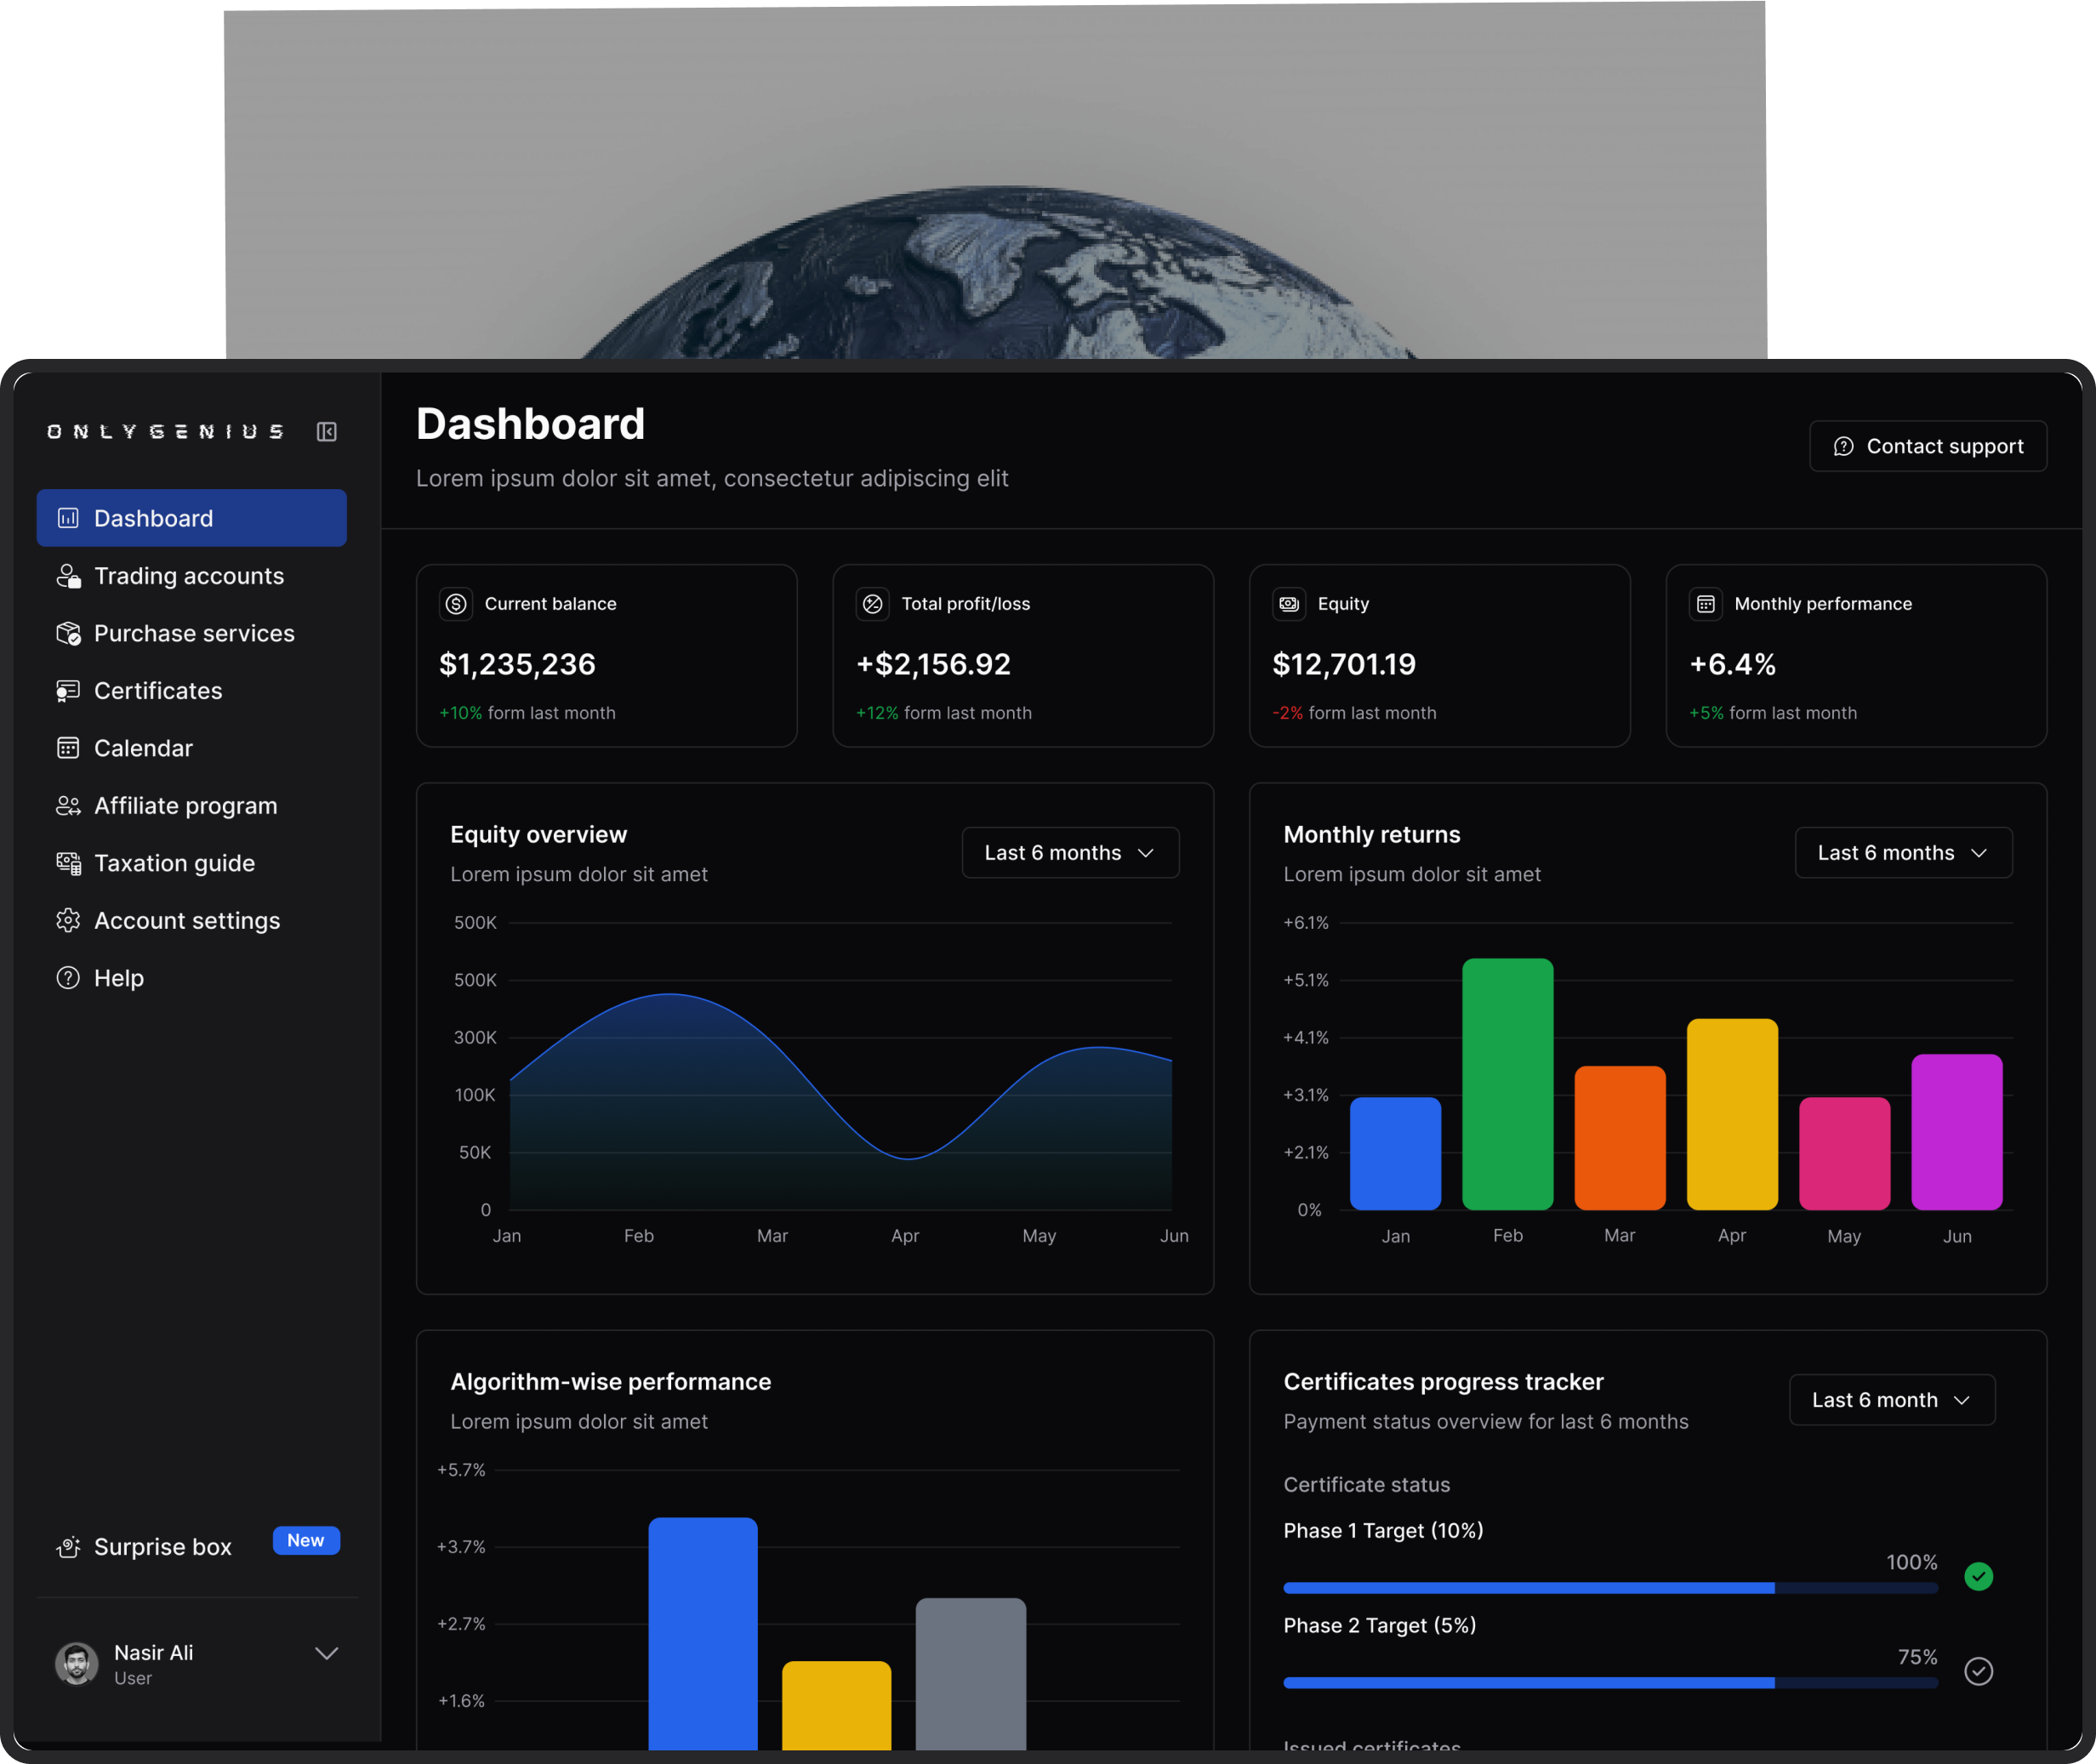
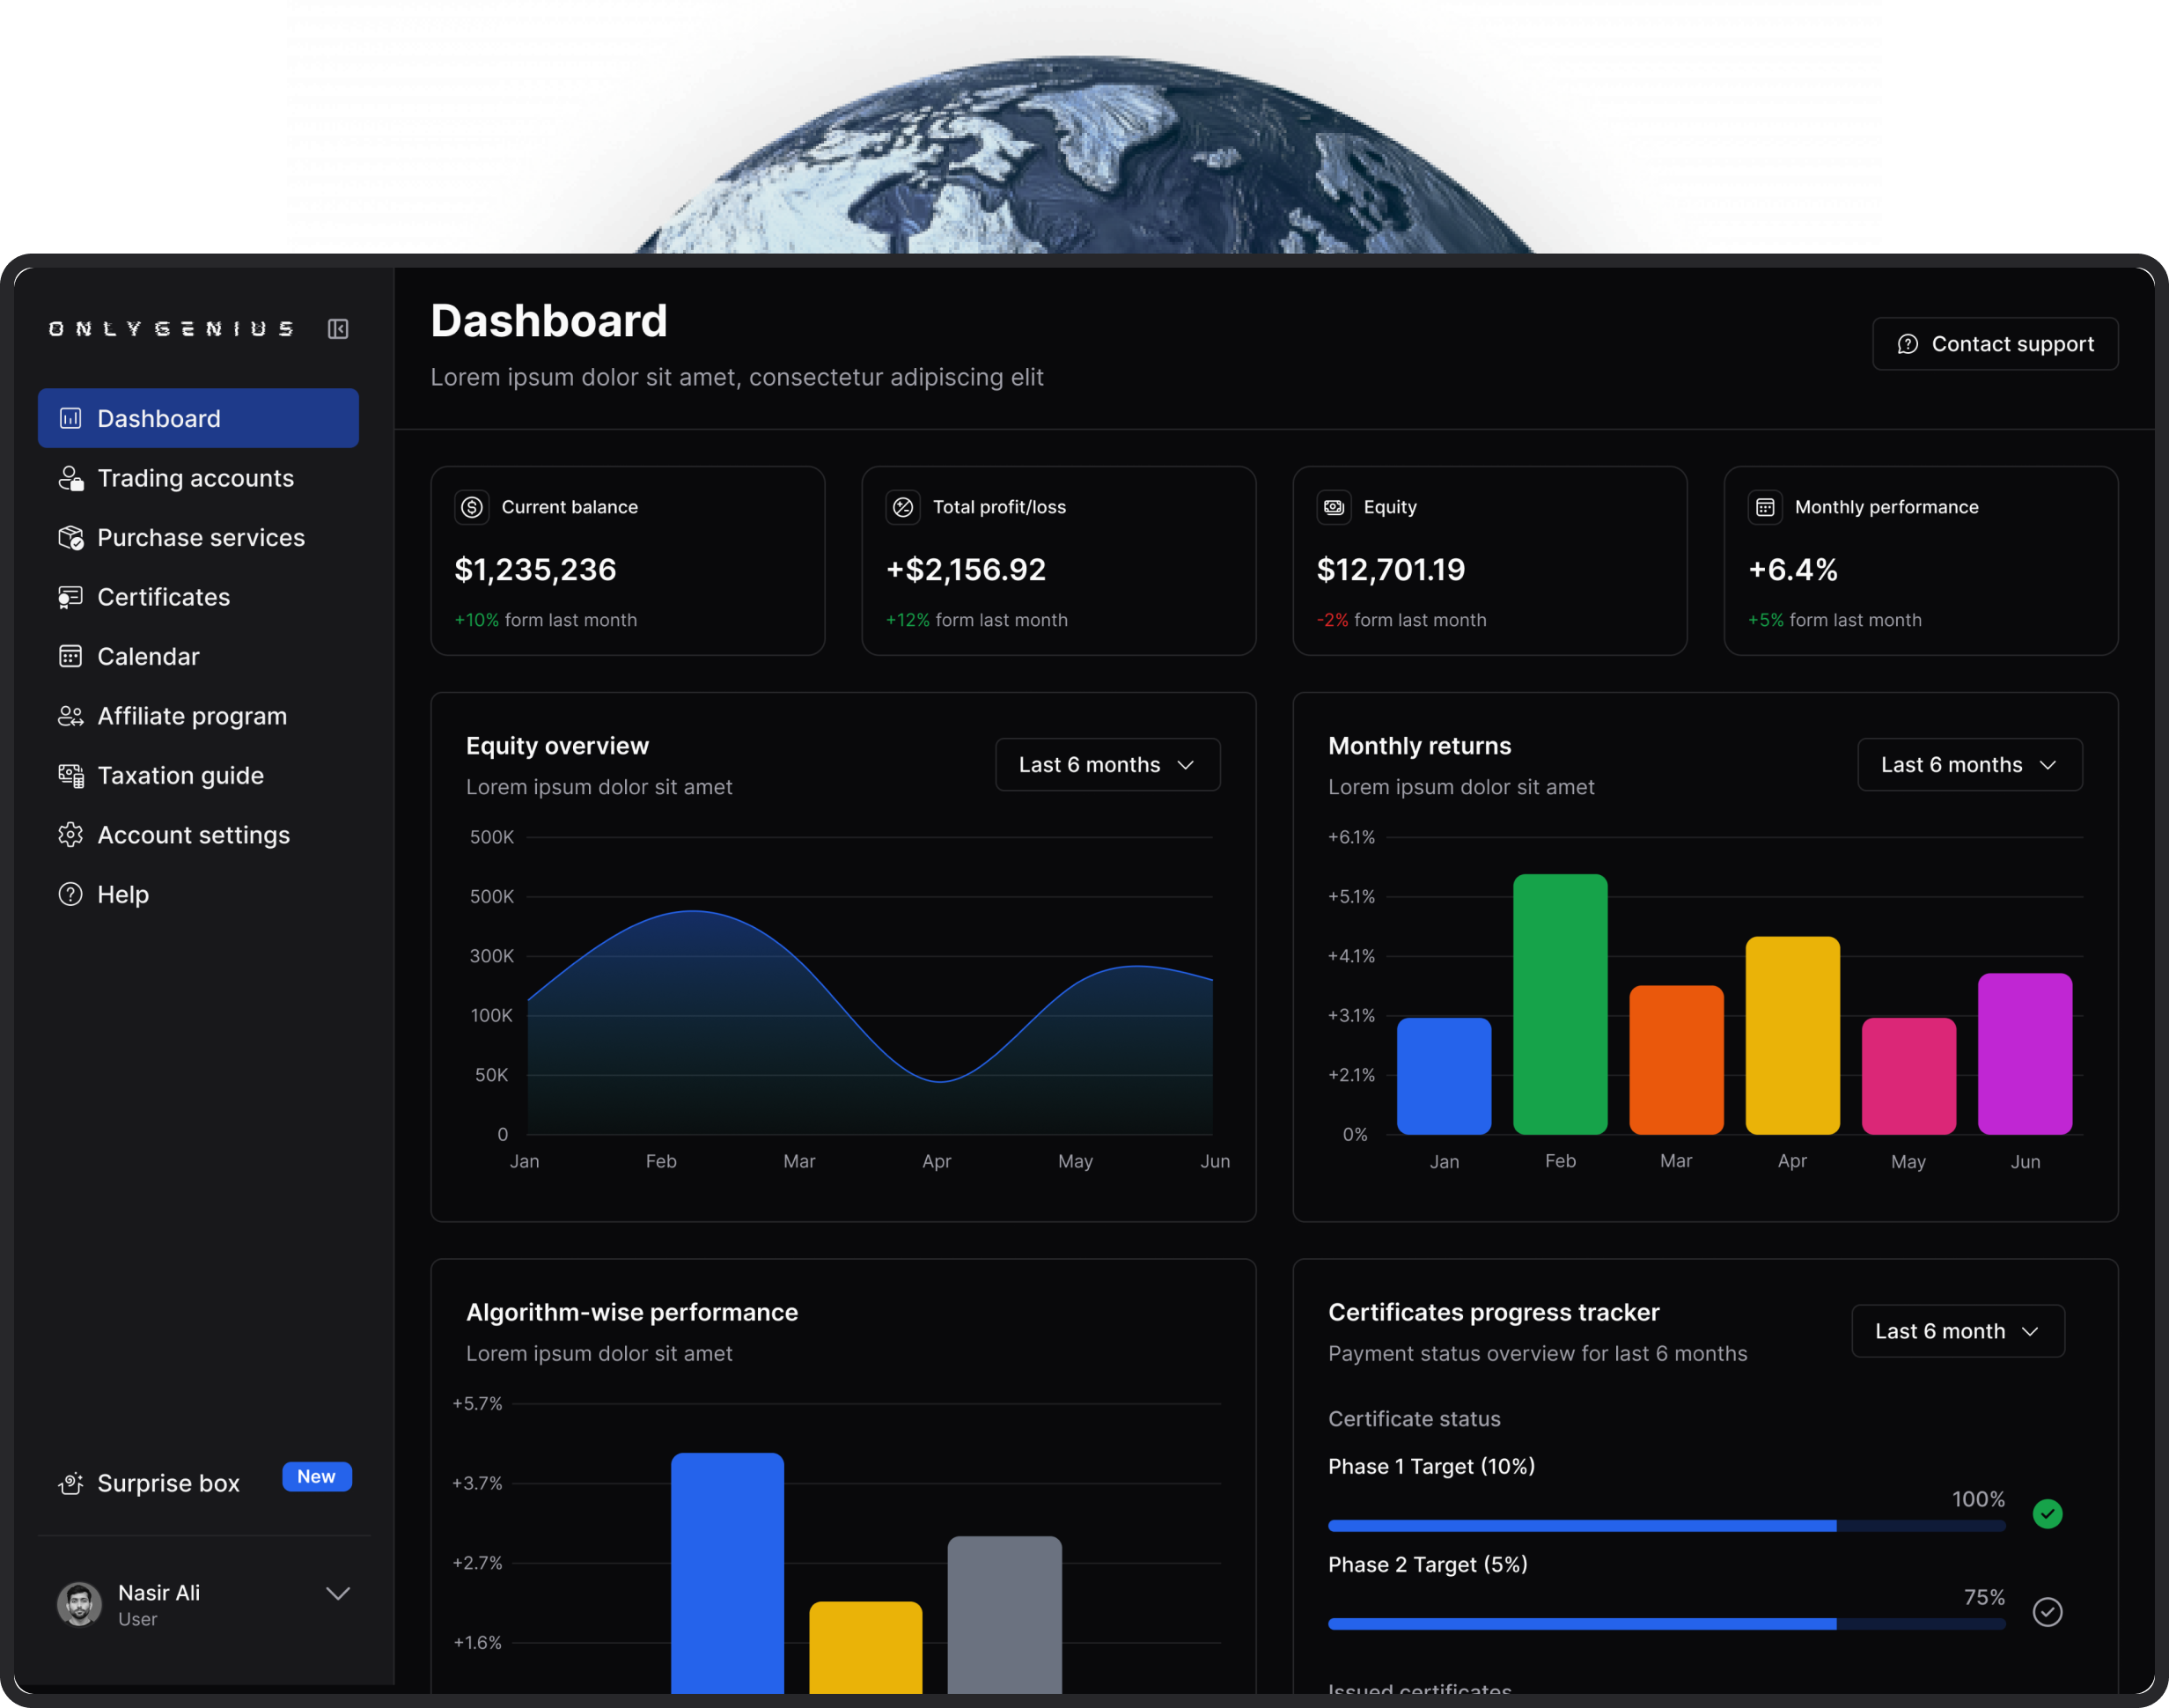
formulario + boton empezar

diff --git a/src/components/Services/InfoModal.jsx b/src/components/Services/InfoModal.jsx
@@ -1,0 +1,70 @@
+import React from "react";
+
+export default function PerformanceAccessModal({ open, onClose }) {
+  if (!open) return null;
+
+  return (
+    <div className="fixed inset-0 z-50 flex items-center justify-center bg-black/60 backdrop-blur-sm">
+      <div className="w-full max-w-md rounded-lg bg-[#0F0F11] border border-[#27272A] text-white p-6 shadow-xl">
+        {/* Header */}
+        <div className="flex justify-between items-center mb-4">
+          <h2 className="text-base font-semibold">Request access to performance data</h2>
+          <button
+            onClick={onClose}
+            className="text-[#A1A1AA] hover:text-white text-xl"
+          >
+            &times;
+          </button>
+        </div>
+
+        {/* Description */}
+        <p className="text-sm text-[#A1A1AA] mb-6">This is a dialog description.</p>
+
+        {/* Form */}
+        <form className="space-y-4">
+          <input
+            type="text"
+            placeholder="Enter your first name"
+            className="w-full px-4 py-2 rounded-md bg-[#18181B] text-white border border-[#27272A] text-sm placeholder-[#52525B]"
+          />
+          <input
+            type="text"
+            placeholder="Enter your last name"
+            className="w-full px-4 py-2 rounded-md bg-[#18181B] text-white border border-[#27272A] text-sm placeholder-[#52525B]"
+          />
+          <input
+            type="email"
+            placeholder="Enter your email"
+            className="w-full px-4 py-2 rounded-md bg-[#18181B] text-white border border-[#27272A] text-sm placeholder-[#52525B]"
+          />
+          <select
+            defaultValue=""
+            className="w-full px-4 py-2 rounded-md bg-[#18181B] text-white border border-[#27272A] text-sm"
+          >
+            <option value="" disabled>e.g (prop firm / broker / other)</option>
+            <option value="prop">Prop Firm</option>
+            <option value="broker">Broker</option>
+            <option value="other">Other</option>
+          </select>
+
+          {/* Action buttons */}
+          <div className="flex justify-between pt-4">
+            <button
+              type="button"
+              onClick={onClose}
+              className="px-4 py-2 rounded-md text-sm font-medium text-white bg-[#18181B] border border-[#27272A] hover:bg-[#27272A]"
+            >
+              Cancel
+            </button>
+            <button
+              type="submit"
+              className="px-4 py-2 rounded-md text-sm font-medium bg-[#2563EB] text-white hover:bg-[#1E40AF]"
+            >
+              Submit
+            </button>
+          </div>
+        </form>
+      </div>
+    </div>
+  );
+}

diff --git a/src/components/Services/Hero.jsx b/src/components/Services/Hero.jsx
@@ -1,8 +1,9 @@
-import React from "react";
-
-export default function ServicesSection() {
+import React, { useState } from "react";
+export default function ServicesSection({Modal}) {
+  const [open,setOpen] = useState(false)
   return (
     <section className="w-full  text-white py-24 px-6 md:px-12">
+
       <div className="max-w-6xl mx-auto">
         {/* Intro */}
         <p className="text-sm text-blue-500 font-medium">Servicios</p>
@@ -44,12 +45,16 @@ export default function ServicesSection() {
               Reservar llamada →
             </button>
              </a>
+             <button className="mt-8 bg-blue-600 text-white px-6 py-2 rounded hover:bg-blue-700 transition" onClick={()=>setOpen(true)} >
+              Empezar
+            </button>
           </div>
 
           {/* Derecha: Imagen */}
           <img src="/image (5).png" alt="Gráficos y logotipos" className="max-w-[500px] min-w-[280px]" />
         </div>
       </div>
+      <Modal open={open} onClose={()=>setOpen(false)}/>
     </section>
   );
 }

diff --git a/src/pages/Services.jsx b/src/pages/Services.jsx
@@ -2,13 +2,15 @@ import Conversion from "../components/Conversion"
 import CustomBotDevelopment from "../components/Services/CustomBot"
 import Hero from "../components/Services/Hero"
 import RealAccountManagement from "../components/Services/RealAccountMgm"
+import PerformanceAccessModal from "../components/Services/InfoModal";
 
 
 export default function Services(){
     return(
         <div className="bg-[radial-gradient(circle_at_20%_30%,#2e2e2e_0%,transparent_40%),radial-gradient(circle_at_70%_60%,#1f1f1f_0%,transparent_50%),radial-gradient(circle_at_50%_50%,#3a3a3a_0%,#0a0a0a_50%)]  text-[#FAFAFA] font-inter w-full overflow-x-hidden min-h-screen">
             <div className="max-w-[1280px] mx-auto px-4 w-[90%]">
-                <Hero/>
+                <Hero Modal={PerformanceAccessModal}/>
+
                 <RealAccountManagement/>
                 <CustomBotDevelopment/>
                 <Conversion/>